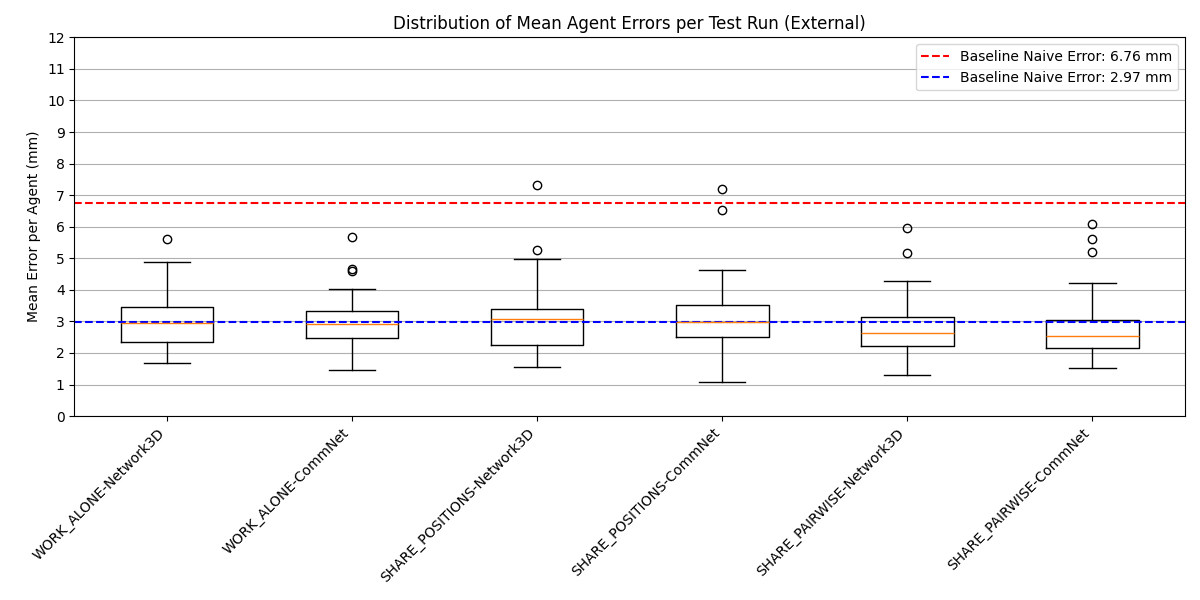
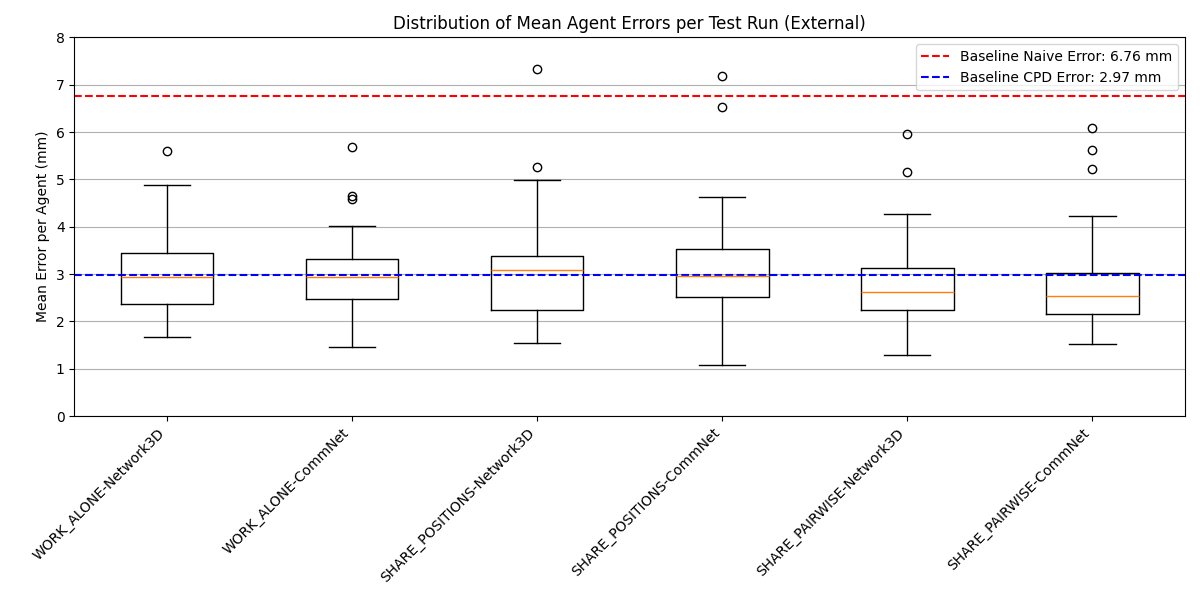
return to affine CPD

diff --git a/main.py b/main.py
@@ -146,14 +146,12 @@ def debug_model(config : ExperimentConfig, logger : MedicalLogger, dataLoader : 
         print("Image: ", i+1)
         eval_env.get_next_image()
         state = eval_env.reset()
-        eval_env.visualize_current_state()
+        #eval_env.visualize_current_state()
+        print(eval_env.image.shape)
         #eval_env.visualize_current_state(only_ground_truth=True)
         #eval_env.geometry.plot(plot_geometric_heights=False, plot_basal_ring=True, plot_bezier_curves=True, plot_label_points=False)
         pairwise_matrixes.append(eval_env.pairwise_distances)
-        #for stat in eval_env.geometry.STATS_list:
-        #    if stat['max_error'] > 2.909751 + 3*1.663999:
-        #        eval_env.geometry.plot(plot_geometric_heights=False, plot_seams=False)
-    #stats = eval_env.compile_curve_fitting_statistics()
+
     pairwise_matrixes = np.array(pairwise_matrixes)
     avg_distances = np.mean(pairwise_matrixes, axis=0)
     var_distances = np.var(pairwise_matrixes, axis=0)

diff --git a/utils/visualiser.py b/utils/visualiser.py
@@ -417,11 +417,11 @@ def boxplot_test_errors(val_dfs, configs, run_ids, title_suffix="", save_path=No
         plt.axhline(baseline_naive_error, color='red', linestyle='--', label=f'Baseline Naive Error: {baseline_naive_error:.2f} mm')
         
     if baseline_CPD_error is not None:
-        plt.axhline(baseline_CPD_error, color='blue', linestyle='--', label=f'Baseline Naive Error: {baseline_CPD_error:.2f} mm')
+        plt.axhline(baseline_CPD_error, color='blue', linestyle='--', label=f'Baseline CPD Error: {baseline_CPD_error:.2f} mm')
     
     plt.legend()
-    plt.ylim((0,12))
-    plt.yticks(np.arange(0,13))
+    plt.ylim((0,8))
+    plt.yticks(np.arange(0,9))
     plt.xticks(rotation=45, ha='right')
     plt.title(f"Distribution of Mean Agent Errors per Test Run{title_suffix}")
     plt.ylabel("Mean Error per Agent (mm)")

diff --git a/bin/Environment.py b/bin/Environment.py
@@ -118,7 +118,7 @@ class MedicalImageEnvironment(gym.Env):
             )
 
 
-    def _get_test_starting_point(self, test_landmarks, train_landmarks, train_ground_truths, rigid=False):
+    def _get_test_starting_point(self, test_landmarks, train_landmarks, train_ground_truths, rigid=True):
         """
         test_anchors: (6, 3)
         train_anchors: (n_images, 6, 3)
